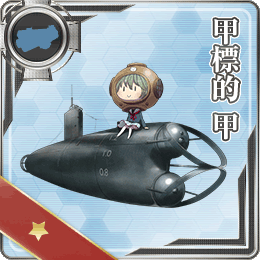
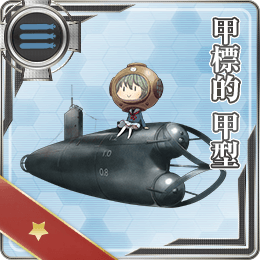
upd 041

diff --git a/redirect/w041.html b/redirect/w041.html
@@ -3,10 +3,10 @@
 <head prefix="og: http://ogp.me/ns#">
   <meta charset="utf-8">
   <meta http-equiv="X-UA-Compatible" content="IE=edge">
-  <title>No.041 特殊潜航艇 甲標的 甲 | 明石の改修工廠早見表</title>
-  <meta name="keywords" content='特殊潜航艇,甲標的 甲'>
+  <title>No.041 特殊潜航艇 甲標的 甲型 | 明石の改修工廠早見表</title>
+  <meta name="keywords" content='特殊潜航艇,甲標的 甲型'>
   <meta name="description" content="独自開発された「特殊潜航艇」です。軽巡洋艦や甲標的母艦に改装した水上機母艦、そして潜水艦が搭載して運用します。二発の魚雷を装備し、敵艦に肉薄して雷撃、艦隊決戦を補助する特殊兵器です。">
-  <meta property="og:title" content='No.041 特殊潜航艇 甲標的 甲 | 明石の改修工廠早見表' />
+  <meta property="og:title" content='No.041 特殊潜航艇 甲標的 甲型 | 明石の改修工廠早見表' />
   <meta property="og:type" content="article" />
   <meta property="og:url" content="https://akashi-list.me/redirect/w041.html" />
   <meta property="og:image" content="https://akashi-list.me/img/weapon041.png" />
@@ -15,9 +15,9 @@
   <script>function isGB(){var a=navigator.userAgent.toLowerCase();return!!/Googlebot/.test(a)}!function(){if(!isGB()){var a=location.pathname.split("/"),b="#"+a[2].split(".")[0],c="http://"+location.host+"/",d=document.referrer;if(d){var d="referrer="+encodeURIComponent(d);c=c+(location.search?"&":"?")+d}c+=b,location.href=c}}();</script>
 </head>
 <body>
-    <h1>No.041 特殊潜航艇 甲標的 甲</h1>
+    <h1>No.041 特殊潜航艇 甲標的 甲型</h1>
 
-    <div class="name jpfont"><span class="no">No.041 </span> 特殊潜航艇 <span class="title">甲標的 甲</span> <a target="_blank" href="http://wikiwiki.jp/kancolle/?%B9%C3%C9%B8%C5%AA%20%B9%C3">Wiki</a>  <a target="_blank" href="http://kancolle.wikia.com/wiki/Kouhyouteki">Wikia</a></div>
+    <div class="name jpfont"><span class="no">No.041 </span> 特殊潜航艇 <span class="title">甲標的 甲型</span> <a target="_blank" href="http://wikiwiki.jp/kancolle/?%B9%C3%C9%B8%C5%AA%20%B9%C3">Wiki</a>  <a target="_blank" href="http://kancolle.wikia.com/wiki/Kouhyouteki">Wikia</a></div>
 <div class="margin-section"></div>
 
 

diff --git a/detail/w041.html b/detail/w041.html
@@ -1,4 +1,4 @@
-<div class="name jpfont"><span class="no">No.041 </span> 特殊潜航艇 <span class="title">甲標的 甲</span> <a target="_blank" href="http://wikiwiki.jp/kancolle/?%B9%C3%C9%B8%C5%AA%20%B9%C3">Wiki</a>  <a target="_blank" href="http://kancolle.wikia.com/wiki/Kouhyouteki">Wikia</a></div>
+<div class="name jpfont"><span class="no">No.041 </span> 特殊潜航艇 <span class="title">甲標的 甲型</span> <a target="_blank" href="http://wikiwiki.jp/kancolle/?%B9%C3%C9%B8%C5%AA%20%B9%C3">Wiki</a>  <a target="_blank" href="http://kancolle.wikia.com/wiki/Kouhyouteki">Wikia</a></div>
 <div class="margin-section"></div>
 
 

diff --git a/index.html b/index.html
@@ -4037,9 +4037,9 @@
         </div>
       </div>
 
-      <div class="weapon tip-top" id="w041" data-title="041: 甲標的 甲">
+      <div class="weapon tip-top" id="w041" data-title="041: 甲標的 甲型">
         <div class="wimage">
-          <img data-src="https://aiacdn.webstg.space/img/weapon041.png" alt="041: 甲標的 甲">
+          <img data-src="https://aiacdn.webstg.space/img/weapon041.png" alt="041: 甲標的 甲型">
           <div class="clip" title="クリップする"></div>
         </div>
         <div class="status">
